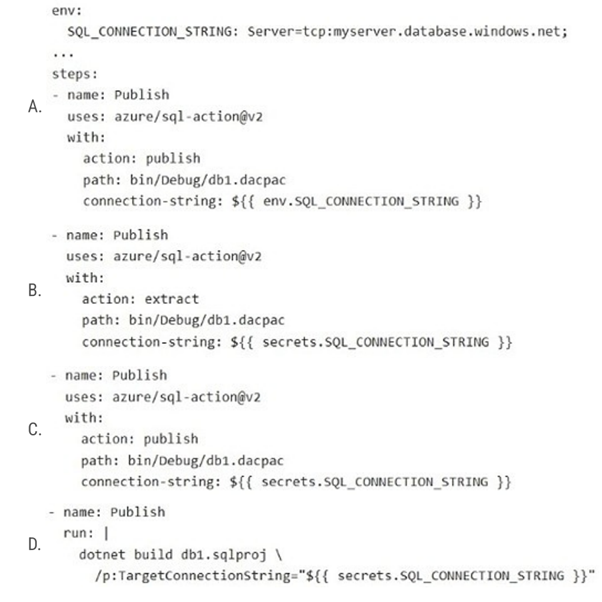
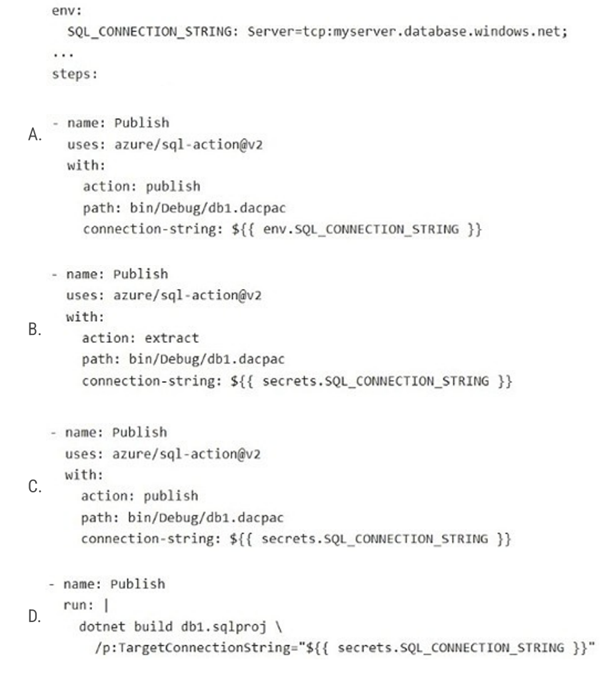
Updated questions 31-40

diff --git a/questions/DP-800/question-031.md b/questions/DP-800/question-031.md
@@ -1,5 +1,39 @@
 ---
-question: "HOTSPOT - You have an Azure SQL database that has Query Store enabled. Query Performance Insight shows that one stored procedure has the longest runtime. The procedure runs the following parameterized query. The dbo.Orders table has approximately 120 million rows. CustomerId is highly selective, and OrderDate is used for range filtering and sorting. You have the following indexes: Clustered index: PK_Orders on (OrderId) Nonclustered index: IX_Orders_OrderDate on (OrderDate) with no included columns An actual execution plan captured from Query Store for slow runs shows the following: An index seek on IX_Orders_OrderDate followed by a Key Lookup (Clustered) on PK_Orders for CustomerId, Status, and TotalAmount A sort operator before Top (50), because the results are ordered by OrderDate DESC For each of the following statements, select Yes if the statement is true. Otherwise, select No. NOTE: Each correct selection is worth one point."
+question: "HOTSPOT - You have an Azure SQL database that has Query Store enabled.
+Query Performance Insight shows that one stored procedure has the longest runtime. The procedure runs the following parameterized query.
+
+
+CREATE OR ALTER PROCEDURE dbo.GetRecentOrders
+
+&emsp;@CustomerId int,
+
+&emsp;@SinceDate datetime2
+
+AS
+
+SELECT TOP (50)
+
+&emsp;o.orderId, o.orderDate, o.Status, o.TotalAmount
+
+FROM dbo.Orders AS o
+
+WHERE o.CustomerId = @CustomerId
+
+&emsp;AND o.OrderDate >= @SinceDate
+
+ORDER BY o.OrderDate DESC;
+
+The dbo.Orders table has approximately 120 million rows. CustomerId is highly selective, and OrderDate is used for range filtering and sorting. 
+
+
+You have the following indexes:
+Clustered index: PK_Orders on (OrderId)
+Nonclustered index: IX_Orders_OrderDate on (OrderDate) with no included columns
+An actual execution plan captured from Query Store for slow runs shows the following:
+An index seek on IX_Orders_OrderDate followed by a Key Lookup (Clustered) on PK_Orders for CustomerId, Status, and TotalAmount
+A sort operator before Top (50), because the results are ordered by OrderDate DESC
+For each of the following statements, select Yes if the statement is true. Otherwise, select No.
+NOTE: Each correct selection is worth one point."
 documentation: "https://learn.microsoft.com/en-us/azure/"
 ---
 

diff --git a/questions/DP-800/question-021.md b/questions/DP-800/question-021.md
@@ -17,27 +17,27 @@ You write the following Transact-SQL code.
 
 04 CREATE OR ALTER PROCEDURE dbo.AskManuals
 
-05 ...
+05&emsp; ...
 
-06 SELECT @chunks =
+06&emsp; SELECT @chunks =
 
-07 ...
+07&emsp; ...
 
-08 SET @payload =
+08&emsp; SET @payload =
 
-09 ...
+09&emsp; ...
 
-10 EXEC @retval = sys.sp_invoke_external_rest_endpoint
+10&emsp; EXEC @retval = sys.sp_invoke_external_rest_endpoint
 
-11 @url = N'https://<your-resource>.openai.azure.com/openai/deployments/<your-deployment>/chat/completions?api-version=2024-02-15-preview',
+11&emsp;&emsp; @url = N'https://<your-resource>.openai.azure.com/openai/deployments/\\<your-deployment\\>/chat/completions?api-version=2024-02-15-preview',
 
-12 @method = N'POST',
+12&emsp;&emsp; @method = N'POST',
 
-13 @credential = N'AzureOpenAIHeaders',
+13&emsp;&emsp; @credential = N'AzureOpenAIHeaders',
 
-14 @payload = @payload,
+14&emsp;&emsp; @payload = @payload,
 
-15 @response = @response OUTPUT;
+15&emsp;&emsp; @response = @response OUTPUT;
 
 16 END;
 

diff --git a/questions/DP-800/question-035.md b/questions/DP-800/question-035.md
@@ -1,5 +1,16 @@
 ---
-question: "HOTSPOT - You have a SQL database in Microsoft Fabric that contains the following functions: A multi-statement table-valued function (TVF) named Sales.mstvf_OrderStatus() that returns order status information A scalar user-defined function (UDF) named dbo.ufn_GetTaxMultiplier (@TaxAmt money, @StateCode char(2)) that returns a numeric multiplier used in tax calculations Reporting queries frequently join Sales.mstvf_OrderStatus() to a table named Sales.SalesOrderHeader and return large result sets. A performance review shows that the queries produce inconsistent execution plans. During a code review, a developer discovers that the following Transact-SQL statement produced an error. EXEC @ret = ufn_GetTaxMultiplier @TaxAmt = 100.00, @StateCode = ‘WA’; For each of the following statements, select Yes if the statement is true. Otherwise, select No. NOTE: Each correct selection is worth one point."
+question: "HOTSPOT - You have a SQL database in Microsoft Fabric that contains the following functions:
+A multi-statement table-valued function (TVF) named Sales.mstvf_OrderStatus() that returns order status information
+A scalar user-defined function (UDF) named dbo.ufn_GetTaxMultiplier (@TaxAmt money, @StateCode char(2)) that returns a numeric multiplier used in tax calculations
+Reporting queries frequently join Sales.mstvf_OrderStatus() to a table named Sales.SalesOrderHeader and return large result sets. A performance review shows that the queries produce inconsistent execution plans.
+
+
+During a code review, a developer discovers that the following Transact-SQL statement produced an error.
+
+EXEC @ret = ufn_GetTaxMultiplier @TaxAmt = 100.00, @StateCode = ‘WA’;
+For each of the following statements, select Yes if the statement is true. Otherwise, select No.
+
+NOTE: Each correct selection is worth one point."
 documentation: "https://learn.microsoft.com/en-us/azure/"
 ---
 

diff --git a/questions/DP-800/question-040.md b/questions/DP-800/question-040.md
@@ -1,5 +1,13 @@
 ---
-question: "Note: This question is part of a series of questions that present the same scenario. Each question in the series contains a unique solution that might meet the stated goals. Some question sets might have more than one correct solution, while others might not have a correct solution. After you answer a question in this section, you will NOT be able to return to it. As a result, these questions will not appear in the review screen. You have a SQL database in Microsoft Fabric that contains a table named dbo.Orders. dbo.Orders has a clustered index, contains three years of data, and is partitioned by a column named OrderDate by month. You need to remove all the rows for the oldest month. The solution must minimize the impact on other queries that access the data in dbo.Orders. Solution: Identify the partition number for the oldest month, and then run the following Transact-SQL statement. TRUNCATE TABLE dbo.Orders - WITH (PARTITIONS (partition number)); Does this meet the goal?"
+question: "Note: This question is part of a series of questions that present the same scenario. Each question in the series contains a unique solution that might meet the stated goals. Some question sets might have more than one correct solution, while others might not have a correct solution. After you answer a question in this section, you will NOT be able to return to it. As a result, these questions will not appear in the review screen. You have a SQL database in Microsoft Fabric that contains a table named dbo.Orders. dbo.Orders has a clustered index, contains three years of data, and is partitioned by a column named OrderDate by month.
+You need to remove all the rows for the oldest month. The solution must minimize the impact on other queries that access the data in dbo.Orders. Solution: Identify the partition number for the oldest month, and then run the following Transact-SQL statement.
+
+
+TRUNCATE TABLE dbo.Orders -
+
+WITH (PARTITIONS (partition number));
+
+Does this meet the goal?"
 documentation: "https://learn.microsoft.com/en-us/azure/"
 ---
 - [x]Yes

diff --git a/questions/DP-800/question-034.md b/questions/DP-800/question-034.md
@@ -1,5 +1,10 @@
 ---
-question: "You have an Azure SQL database that supports the OLTP workload of an order-processing application. During a 10-minute incident window, you run a dynamic management view query and discover the following: Session 72 is sleeping with open_transaction_count = 1. Multiple other sessions show blocking_session_id = 72 in sys.dm_exec_requests. sys.dm_exec_input_buffer(72, NULL) returns only BEGIN TRANSACTION UPDATE Sales.Orders. Users report that updates to Sales.Orders intermittently time out during the incident window. The timeouts stop only after you manually terminate session 72. What is a possible cause of the blocking?"
+question: "You have an Azure SQL database that supports the OLTP workload of an order-processing application.
+During a 10-minute incident window, you run a dynamic management view query and discover the following:
+Session 72 is sleeping with open_transaction_count = 1.
+Multiple other sessions show blocking_session_id = 72 in sys.dm_exec_requests. sys.dm_exec_input_buffer(72, NULL) returns only BEGIN TRANSACTION UPDATE Sales.Orders.
+Users report that updates to Sales.Orders intermittently time out during the incident window. The timeouts stop only after you manually terminate session 72.
+What is a possible cause of the blocking?"
 documentation: "https://learn.microsoft.com/en-us/azure/"
 ---
 - [ ]A long-running SELECT statement is blocking writers.

diff --git a/questions/DP-800/question-036.md b/questions/DP-800/question-036.md
@@ -1,5 +1,9 @@
 ---
-question: "You have an Azure SQL database named SalesDB on a logical server named sales-sql01. You have an Azure App Service web app named OrderApi that connects to SalesDB by using SQL authentication. You enable a user-assigned managed identity named OrderApi-Id for OrderApi. You need to configure OrderApi to connect to SalesDB by using Microsoft Entra authentication. The managed identity must have read and write permissions to SalesDB. Which Transact-SQL statements should you run in SalesDB? A. B. C. D."
+question: "You have an Azure SQL database named SalesDB on a logical server named sales-sql01.
+You have an Azure App Service web app named OrderApi that connects to SalesDB by using SQL authentication.
+You enable a user-assigned managed identity named OrderApi-Id for OrderApi.
+You need to configure OrderApi to connect to SalesDB by using Microsoft Entra authentication. The managed identity must have read and write permissions to SalesDB.
+Which Transact-SQL statements should you run in SalesDB?"
 documentation: "https://learn.microsoft.com/en-us/azure/"
 ---
 

diff --git a/questions/DP-800/question-032.md b/questions/DP-800/question-032.md
@@ -1,5 +1,8 @@
 ---
-question: "You have a database named DB1. The schema is stored in a Git repository as an SDK-style SQL database project. You have a GitHub Actions workflow that already runs dotnet build and produces a database artifact. You need to add a deployment step that publishes the .dacpac file to an Azure SQL database by using the secrets stored in GitHub repository secrets. What should you include in the workflow? A. B. C. D."
+question: "You have a database named DB1. The schema is stored in a Git repository as an SDK-style SQL database project.
+You have a GitHub Actions workflow that already runs dotnet build and produces a database artifact.
+You need to add a deployment step that publishes the .dacpac file to an Azure SQL database by using the secrets stored in GitHub repository secrets.
+What should you include in the workflow?"
 documentation: "https://docs.github.com/en/actions"
 ---
 

diff --git a/questions/DP-800/question-037.md b/questions/DP-800/question-037.md
@@ -1,5 +1,8 @@
 ---
-question: "You have an Azure SQL database that contains a column named Notes. A security review discovers that Notes contains sensitive data. You need to ensure that the data is protected so that neither the stored values nor the query inputs reveal information about the actual data. The solution must prevent a user from inferring relationships or repetitions in the data based on the encrypted output. Which should you use?"
+question: "You have an Azure SQL database that contains a column named Notes.
+A security review discovers that Notes contains sensitive data.
+You need to ensure that the data is protected so that neither the stored values nor the query inputs reveal information about the actual data. The solution must prevent a user from inferring relationships or repetitions in the data based on the encrypted output.
+Which should you use?"
 documentation: "https://learn.microsoft.com/en-us/azure/"
 ---
 - [ ]Always Encrypted with secure enclaves

diff --git a/questions/DP-800/question-038.md b/questions/DP-800/question-038.md
@@ -1,5 +1,7 @@
 ---
-question: "You have an Azure SQL database that stores order data. A reporting query aggregates monthly revenue per customer runs frequently. You need to reduce how long it takes to retrieve the calculated values. The solution must NOT alter any underlying table structure. What should you do?"
+question: "You have an Azure SQL database that stores order data.
+A reporting query aggregates monthly revenue per customer runs frequently.
+You need to reduce how long it takes to retrieve the calculated values. The solution must NOT alter any underlying table structure. What should you do?"
 documentation: "https://learn.microsoft.com/en-us/azure/"
 ---
 - [ ]Create a view by using ORDER BY without TOP, and then create a unique clustered index on the view.

diff --git a/questions/DP-800/question-039.md b/questions/DP-800/question-039.md
@@ -1,5 +1,7 @@
 ---
-question: "You have a GitHub Actions workflow that builds and deploys an Azure SQL database. The schema is stored in a GitHub repository as an SDK-style SQL database project. Following a code review, you discover that you need to generate a report that shows whether the production schema has diverged from the model in source control. Which action should you add to the pipeline?"
+question: "You have a GitHub Actions workflow that builds and deploys an Azure SQL database. The schema is stored in a GitHub repository as an SDK-style SQL database project.
+Following a code review, you discover that you need to generate a report that shows whether the production schema has diverged from the model in source control.
+Which action should you add to the pipeline?"
 documentation: "https://docs.github.com/en/actions"
 ---
 - [x]SqlPackage.exe /Action:DriftReport

diff --git a/questions/DP-800/question-033.md b/questions/DP-800/question-033.md
@@ -1,5 +1,6 @@
 ---
-question: "HOTSPOT - You have a Microsoft Fabric workspace named Workspace1 that contains a SQL database named SalesDB and an API for GraphQL item named SalesApi. You have a Microsoft Entra group named SqlUsers. From Workspace1, you assign permission to SalesApi as shown in the following exhibit. The connection to SalesDB has the connectivity option configured as shown in the following exhibit. SqlUsers has the Viewer role for Workspace1. For each of the following statements, select Yes if the statement is true. Otherwise, select No. NOTE: Each correct selection is worth one point."
+question: "HOTSPOT -
+You have a Microsoft Fabric workspace named Workspace1 that contains a SQL database named SalesDB and an API for GraphQL item named SalesApi."
 documentation: "https://learn.microsoft.com/en-us/azure/"
 ---
 

diff --git a/questions/GH-300/question-032.md b/questions/GH-300/question-032.md
@@ -5,5 +5,5 @@ documentation: "https://learn.microsoft.com/en-us/azure/cognitive-services/respo
 - [ ]The API can generate detailed reports on code quality improvements made by GitHub Copilot.
 - [x]The API can track the number of code suggestions accepted and used in the organization.
 - [ ]The API can provide feedback on coding style and standards compliance.
-- [ ]The API can provide Copilot Chat specific suggestions acceptance metrics.
+- [x]The API can provide Copilot Chat specific suggestions acceptance metrics.
 - [ ]The API can refactor your code to improve productivity.